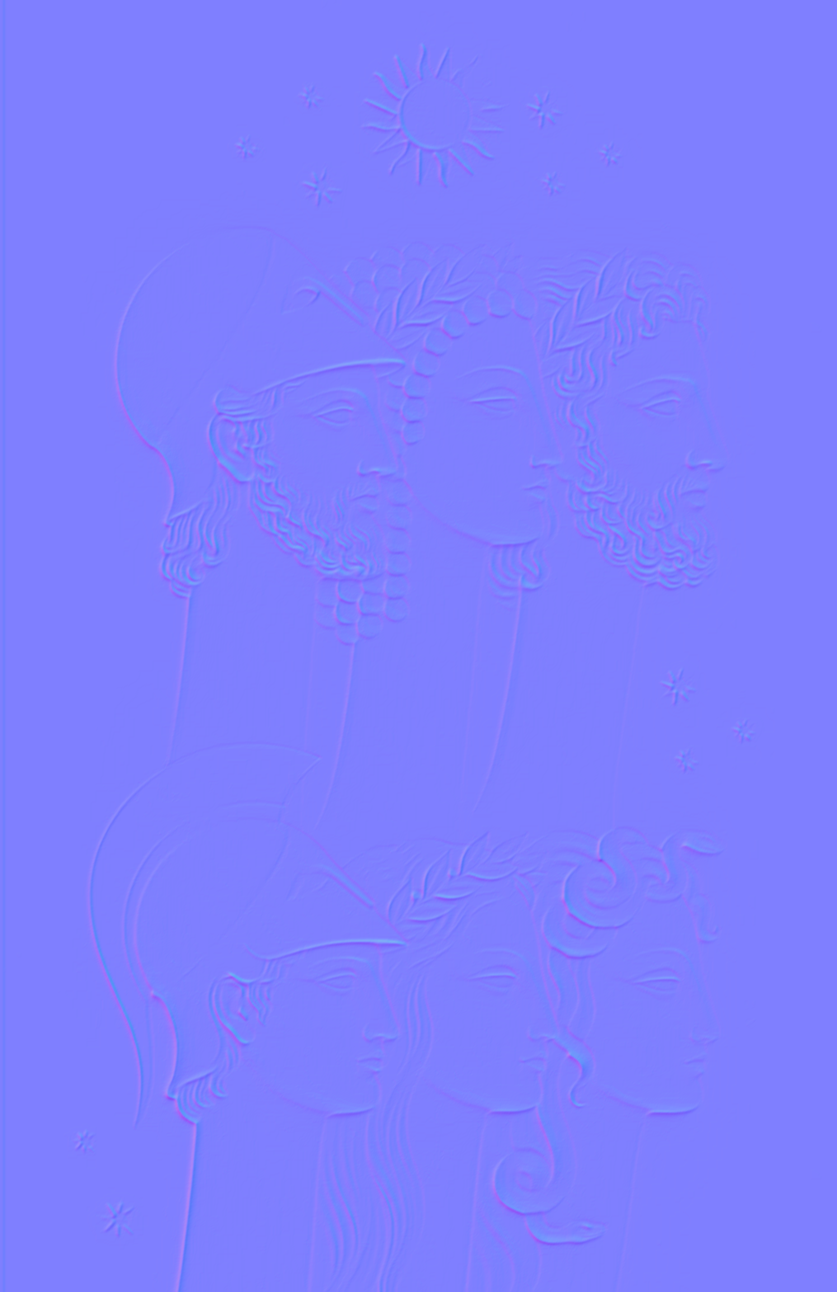
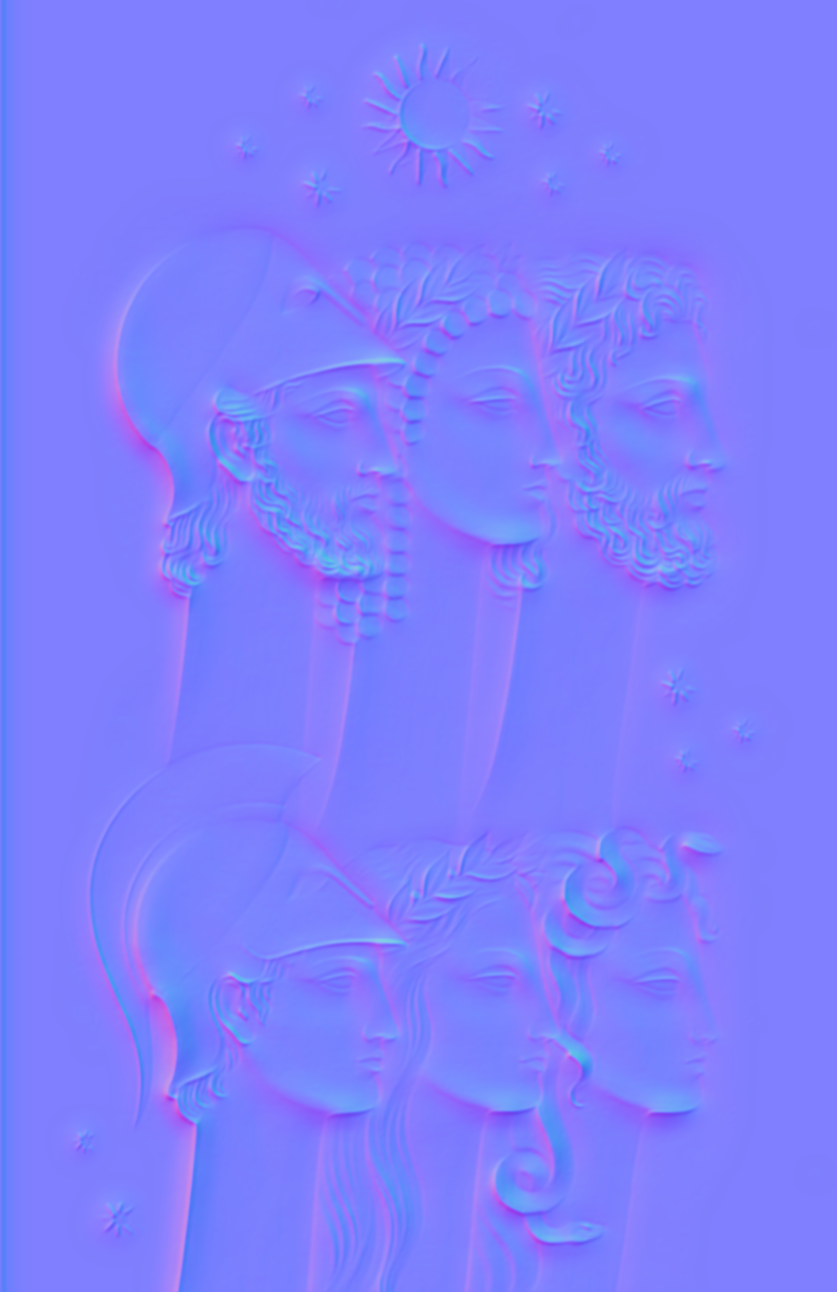
Polished-silver chrome look: env-reflection shading + smooth multi-scale normals
Amp-Thread-ID: https://ampcode.com/threads/T-019ee589-d452-735d-be78-86370f2b213f

diff --git a/metallic-facade.js b/metallic-facade.js
@@ -83,25 +83,27 @@ void main() {
   float effCursorSpec    = cursorSpec * uSpecular * cursorAtten;
   float effCursorAmbient = uCursorAmbient * cursorAtten;
 
-  // Matte shading (Lambert + Phong)
-  vec3 matteColor = baseColor.rgb * (uAmbientLight + effCursorAmbient
-                  + effCursorDiff * uLightColor)
-                  + uLightColor * effCursorSpec;
+  // ---- Matte plaster (subtle) — keeps the un-revealed look as the image ----
+  vec3 matteColor = baseColor.rgb + uLightColor * effCursorSpec * 0.4;
 
-  // Metallic shading — sharper, stronger highlight, tinted by base color
-  float effMetalSpec = cursorSpecMtl * uLightIntensity * 2.0 * cursorAtten;
-  float effMetalDiff = cursorDiff    * uLightIntensity * 0.25 * cursorAtten;
-  vec3  metalHighlight = mix(uLightColor * effMetalSpec,
-                             baseColor.rgb * effMetalSpec, 0.75);
-  vec3  metallicColor  = baseColor.rgb * (uAmbientLight + effCursorAmbient
-                       + effMetalDiff * uLightColor)
-                       + metalHighlight;
+  // ---- Chrome / liquid silver -------------------------------------------
+  // Fake studio reflection: map the reflected ray to a vertical tonal ramp
+  // (dark below -> bright above) with a bright horizon band, so the relief
+  // reads as polished metal — deep recesses, hot highlights, full range.
+  vec3  refl  = reflect(-viewDir, normal);
+  float g     = clamp(refl.y, -1.0, 1.0);
+  float body  = smoothstep(-0.6, 0.6, g);
+  vec3  silver = mix(vec3(0.06, 0.06, 0.08), vec3(0.92, 0.94, 1.0), body);
+  // bright "studio horizon" sweep — sits ABOVE the flat mid-tone so flat
+  // areas stay mid-silver and only upward-facing curves catch the hot band.
+  silver += vec3(0.5) * exp(-pow((g - 0.35) / 0.13, 2.0));
+  float glint = pow(max(dot(normal, halfVec), 0.0), 40.0);    // moving hot spots
+  silver += uLightColor * glint * uSpecular;
+  vec3  metallicColor = clamp(silver, 0.0, 1.0);
 
-  vec3 lit = clamp(mix(matteColor, metallicColor, uMetallic), 0.0, 1.0);
-
-  // Blend the lit (metallic) result over the plain image by hover amount,
-  // strongest near the cursor.
-  vec3 finalColor = mix(baseColor.rgb, lit, clamp(uHover, 0.0, 1.0));
+  // ---- Reveal: matte -> chrome near the cursor, fading with hover ----
+  vec3 revealed   = mix(matteColor, metallicColor, uMetallic);
+  vec3 finalColor = mix(baseColor.rgb, revealed, cursorAtten);
 
   fragColor = vec4(finalColor, 1.0);
 }`;

diff --git a/index.html b/index.html
@@ -26,7 +26,7 @@
       normalMap: 'relief-normal.png',
       metallic: 0.95,
       ambientLight: 0.5,
-      lightRadius: 1.3,
+      lightRadius: 1.6,
       specular: 1.3,
     });
   </script>